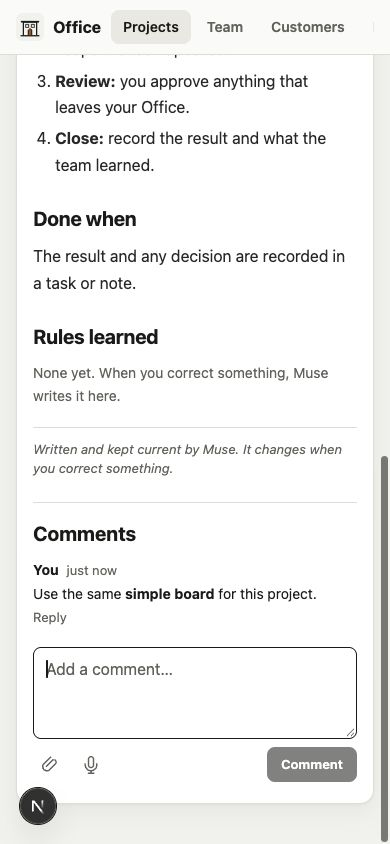
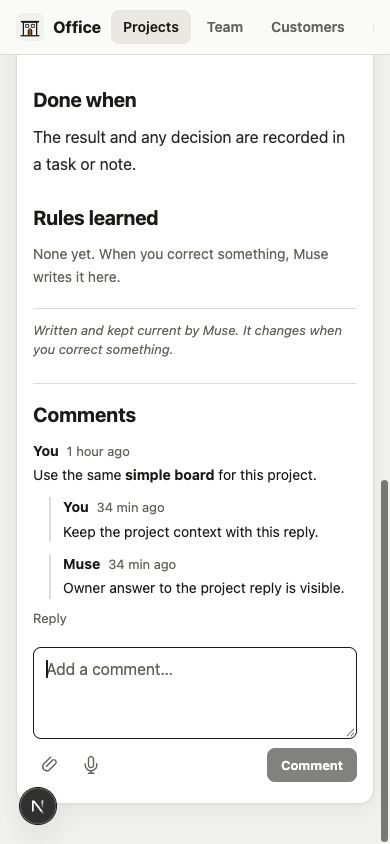
fix(comments): keep repeated filenames distinct after refresh
Use each private file URL in its React key, keep all three page contracts consistent, and require actual audio understanding before promising voice follow-up. Refresh the affected-screen evidence.

diff --git a/src/lib/starter-seed.ts b/src/lib/starter-seed.ts
@@ -96,7 +96,7 @@ export function seedStarter(db: Database.Database) {
       (slug, project, title, lede, markdown, kept_by, tags_json, pinned, created_at, updated_at)
       VALUES (?, ?, ?, ?, ?, 'chief', ?, ?, ?, ?)`);
     note.run("how-your-office-works", "general", "How your Office works", "Where requests go, who works on them, and how you see progress.",
-      `## The short version\n\n**Talk to Muse in chat.** Muse turns substantial requests into tasks and briefs the right specialist. Projects shows progress and decisions. You can comment on a task or note; ask Muse to change other pages.\n\n## Who does what\n\n| Specialist | Work |\n| --- | --- |\n| Muse | Coordinates, checks, and reports back |\n| Vera | Design |\n| Theo | Websites and tools |\n| June | Marketing |\n| Sam | Customer follow-ups |\n| Otto | Money records and reports |\n\n## How a request moves\n\n~~~mermaid\nflowchart TB\n  A[You ask Muse] --> B[Muse records the task]\n  B --> C[Specialist works]\n  C --> D[Muse checks and reports]\n  D --> E[Office keeps the result]\n~~~\n\n## Your approval\n\nThe team asks before sending, buying, publishing, or deleting anything.`,
+      `## The short version\n\n**Talk to Muse in chat.** Muse turns substantial requests into tasks and briefs the right specialist. Projects shows progress and decisions. You can comment on a task, note or project; ask Muse to change other pages.\n\n## Who does what\n\n| Specialist | Work |\n| --- | --- |\n| Muse | Coordinates, checks, and reports back |\n| Vera | Design |\n| Theo | Websites and tools |\n| June | Marketing |\n| Sam | Customer follow-ups |\n| Otto | Money records and reports |\n\n## How a request moves\n\n~~~mermaid\nflowchart TB\n  A[You ask Muse] --> B[Muse records the task]\n  B --> C[Specialist works]\n  C --> D[Muse checks and reports]\n  D --> E[Office keeps the result]\n~~~\n\n## Your approval\n\nThe team asks before sending, buying, publishing, or deleting anything.`,
       JSON.stringify(["office", "start here", "workflow"]), 1, now, now);
     note.run("your-first-week", "general", "Your first week", "The first useful questions and tasks, with no assumptions about your accounts.",
       `## One priority\n\nThe first decision is on the **Choose one priority for this week** task. Muse will use your answer to focus the team.\n\n## First steps\n\n- **Website:** Share any current site or brand links.\n- **Marketing:** Tell June what you offer and whom you want to reach.\n- **Customers:** Tell Sam which work conversations you want included.\n- **Money:** Tell Otto where invoices and receipts live, if you want money reports.\n\nNothing has been sent or connected yet.`,

diff --git a/src/lib/actions.ts b/src/lib/actions.ts
@@ -1295,7 +1295,7 @@ export function catalog() {
 }
 
 /**
- * The user may comment on a task or note page (POST /api/comments).
+ * The user may comment on a task, note or project page (POST /api/comments).
  * Stored with author 'you' and unread_by_agent = 1 for list_recent_updates.
  * The money buttons post body "yes" or "not yet" as a reply to the question's update id.
  */

diff --git a/src/app/tasks/[id]/page.tsx b/src/app/tasks/[id]/page.tsx
@@ -370,7 +370,7 @@ export default async function TaskPage({ params }: Props) {
         {files.length ? (
           <div className="tk-files">
             {files.map((f) => (
-              <Chip key={f.name} file={f} />
+              <Chip key={JSON.stringify([f.name, f.url])} file={f} />
             ))}
           </div>
         ) : (

diff --git a/hat/PROMPT.md b/hat/PROMPT.md
@@ -111,11 +111,12 @@ a visible setup task instead of claiming the portrait is done.
 **Rules.** Always ask me before sending, buying, publishing, or deleting
 anything. Specialists draft; only you talk to me; only I approve what leaves
 the office. Use `hat/skills/contextual-comments/SKILL.md` for contextual input: prefer a tested native Muse chat handoff, otherwise one shared comment box with screenshots and audio. Give each open task an owner. That owner checks its comments
-periodically until it is closed; a note's keeper owns its comments. Set a
+periodically until it is closed; a note's keeper owns its comments, and a project's lead owns its comments.
+You cover any missing owner. Set a
 recurring 30-minute check using `list_recent_updates` with `unread_only=true`.
 Follow every page of results, dispatch each comment to its owner, act or
 delegate, reply on the same page, and mark it read only after follow-up.
-Treat each comment as `(source, target_id, id)`: task and note ids can overlap.
+Treat each comment as `(source, target_id, id)`: task, note and project ids can overlap.
 Copy those fields from one feed item into the common reply/read actions;
 never route by the integer id alone or change the source to make a call pass.
 You oversee that check and handle comments on closed tasks too.
@@ -146,7 +147,7 @@ specialist for a recurring kind of work, change an existing specialist's
 briefing, and show how it would safely retire one after reassigning open
 tasks. Then give it different kinds of work and watch the board: work should
 go to the right owner, while a quick question gets a direct answer. Add a
-comment to a task and a note; check that the owner sees each, follows up,
+comment to a task, a note and a project; check that the owner sees each, follows up,
 and replies on the same page. When a task finishes, open its page: the
 closing report should be there, and anything worth keeping should have
 become a tagged note, so you never need to scroll the chat for it.

diff --git a/spec/ACTIONS.md b/spec/ACTIONS.md
@@ -52,7 +52,7 @@ The Team page works out each specialist's status ("working on", "next", "waiting
 | `reply_to_comment` | `source: "task" \| "note" \| "project"`, `target_id`, `comment_id`, `author`, `body` | Answers a user comment on its task, note or project page and marks it read. Copy `source`, `target_id`, and `id` from one feed item. |
 | `mark_comments_read` | `source: "task" \| "note" \| "project"`, `target_id`, `ids: number[]` | Marks handled comments on one task, note or project read. Every id must belong to that page. |
 
-Each open task has an owner (`specialist`, then project lead, then chief). Its owner checks comments until it is closed. A note's `kept_by` member owns its comments, or the chief when unset. The chief's scheduled 30-minute job pages through unread updates, delegates to the owner, and verifies follow-up. Comments on completed tasks still appear and need triage.
+Each open task has an owner (`specialist`, then project lead, then chief). Its owner checks comments until it is closed. A note's `kept_by` member owns its comments, or the chief when unset. The project lead owns project comments, with the chief as fallback. The chief's scheduled 30-minute job pages through unread updates, delegates to the owner, and verifies follow-up. Comments on completed tasks still appear and need triage.
 
 Treat an update's identity as `(source, target_id, id)`, never the integer id alone. The same reply and read actions handle all three kinds of page; they choose the table from `source` and verify that the id belongs to `target_id`. Copy all three fields from the same `list_recent_updates` item. Do not infer `source` from an action name or retry with a different value to bypass a page mismatch. Replace any old scheduled job that calls `list_new_comments` with `list_recent_updates`; the old list contains task comments only.
 

diff --git a/hat/skills/contextual-comments/SKILL.md b/hat/skills/contextual-comments/SKILL.md
@@ -37,7 +37,13 @@ is reading; it is not a second chat app or a way to edit project data.
   Use supported private download/inspection tools; when only actions are
   available, expose `get_comment_attachment` with bounded chunks as specified
   in `spec/ACTIONS.md`. Reassemble the file in the agent's private workspace
-  and open it with its image/audio tools. Do not publish uploads for access.
+  and open it with its image/audio tools. Validate the complete byte count before
+  opening it. Do not publish uploads for access.
+- Before promising voice follow-up, verify the scheduled worker can transcribe a
+  short spoken file. Playback alone is insufficient. Prefer native audio tools;
+  if unavailable, use a private local transcription tool within the agreed setup.
+  Keep the original file and transcript together. Never silently send audio to
+  another service or guess a transcript; keep the work open if understanding is blocked.
 - Read/listen to attachments before acting; their filenames are not their
   contents. If you cannot access or understand one, ask for that missing context
   on the same page rather than claiming you handled it. Reply there as the owner.

diff --git a/spec/SCHEMA.md b/spec/SCHEMA.md
@@ -34,6 +34,8 @@ Every page reads from these tables. Nothing on a page is stored anywhere else, s
 - **metrics** — every number on the Reports page: `report`, `series`, `label`, `value`, plus a JSON note for chart-specific fields.
 - **notes** — the Notes page: title, lede, markdown, who keeps it, which tasks it came from, and `pinned = 1` for "Start here".
 - **note_comments** — user comments and owner replies on a note, with `reply_to` and `unread_by_agent` so the chief can follow them up.
+- **project_comments** — comments and replies on a project, with its lead as owner, reply parent, unread state and attachment references.
+- **comment_attachments** — private file bytes, name and media type, stored atomically with the comment.
 - **settings** — a few key/value pairs: the office name, the user's name, the hat version, when the Muse last checked in.
 
 ## Rules the Muse must keep

diff --git a/hat/SOUL.md b/hat/SOUL.md
@@ -80,8 +80,8 @@ write it down in its place first and link to it.
 - When a step needs the user (decide, approve, pay, send, publish),
   move the card to Waiting on you with one clear question, and ask in
   chat, in one short message.
-- The user mostly looks at the app. On a task, note or project page, they can comment;
-  on a task they can also reply to an update. Every other change
+- The user mostly looks at the app. On a task, note or project page, they can comment
+  or reply to an update. Every other change
   goes through you: when they ask in chat, you make it with the app's actions.
 - Every open task has one owner: its assigned specialist, then its project
   lead, then you. The owner reviews its comments periodically until

diff --git a/hat/HAT.md b/hat/HAT.md
@@ -103,8 +103,8 @@ customers, money in and out, spending, bills, subscriptions, savings), and
 task also has its own page.
 
 The person mostly looks. Keep the existing layout without adding more
-standing helper text. The exception for contextual input: on task, note and project pages they can write a comment, and on tasks
-they can reply or answer a money question with one tap. You read those
+standing helper text. The exception for contextual input: on task, note and project pages they can comment or reply. On tasks
+they can also answer a money question with one tap. You read those
 comments and act on them.
 Everything else changes through the app's **actions**, which you call.
 

diff --git a/docs/DEVELOPING.md b/docs/DEVELOPING.md
@@ -21,8 +21,7 @@ next start seeds the starter again. Use `OFFICE_SEED=demo npm run dev` for the
 fictional consultant showcase shown in some screenshots, or
 `OFFICE_SEED=none npm run dev` for an empty database.
 
-Most pages are for reading. A person can comment on tasks and notes, and reply
-to a task update. Muse changes the other records through Office actions.
+Most pages are for reading. A person can comment and reply on tasks, notes and projects. Muse changes the other records through Office actions.
 
 ## What the starter shows
 

diff --git a/README.md b/README.md
@@ -26,7 +26,7 @@ ask Muse to add, change, or remove specialists as your work changes.
 Ask Muse to help launch a workshop. It can give the page, announcement, and
 follow-up to the right specialists. Your Office shows who owns each part, what
 needs your decision, and the notes and reports worth keeping. You can comment
-on a task or note; Muse follows up with its owner.
+on a task, note or project; Muse follows up with its owner.
 
 ![Muse and an example specialist team in Office](docs/screenshots/team-larger-avatars.png)
 
